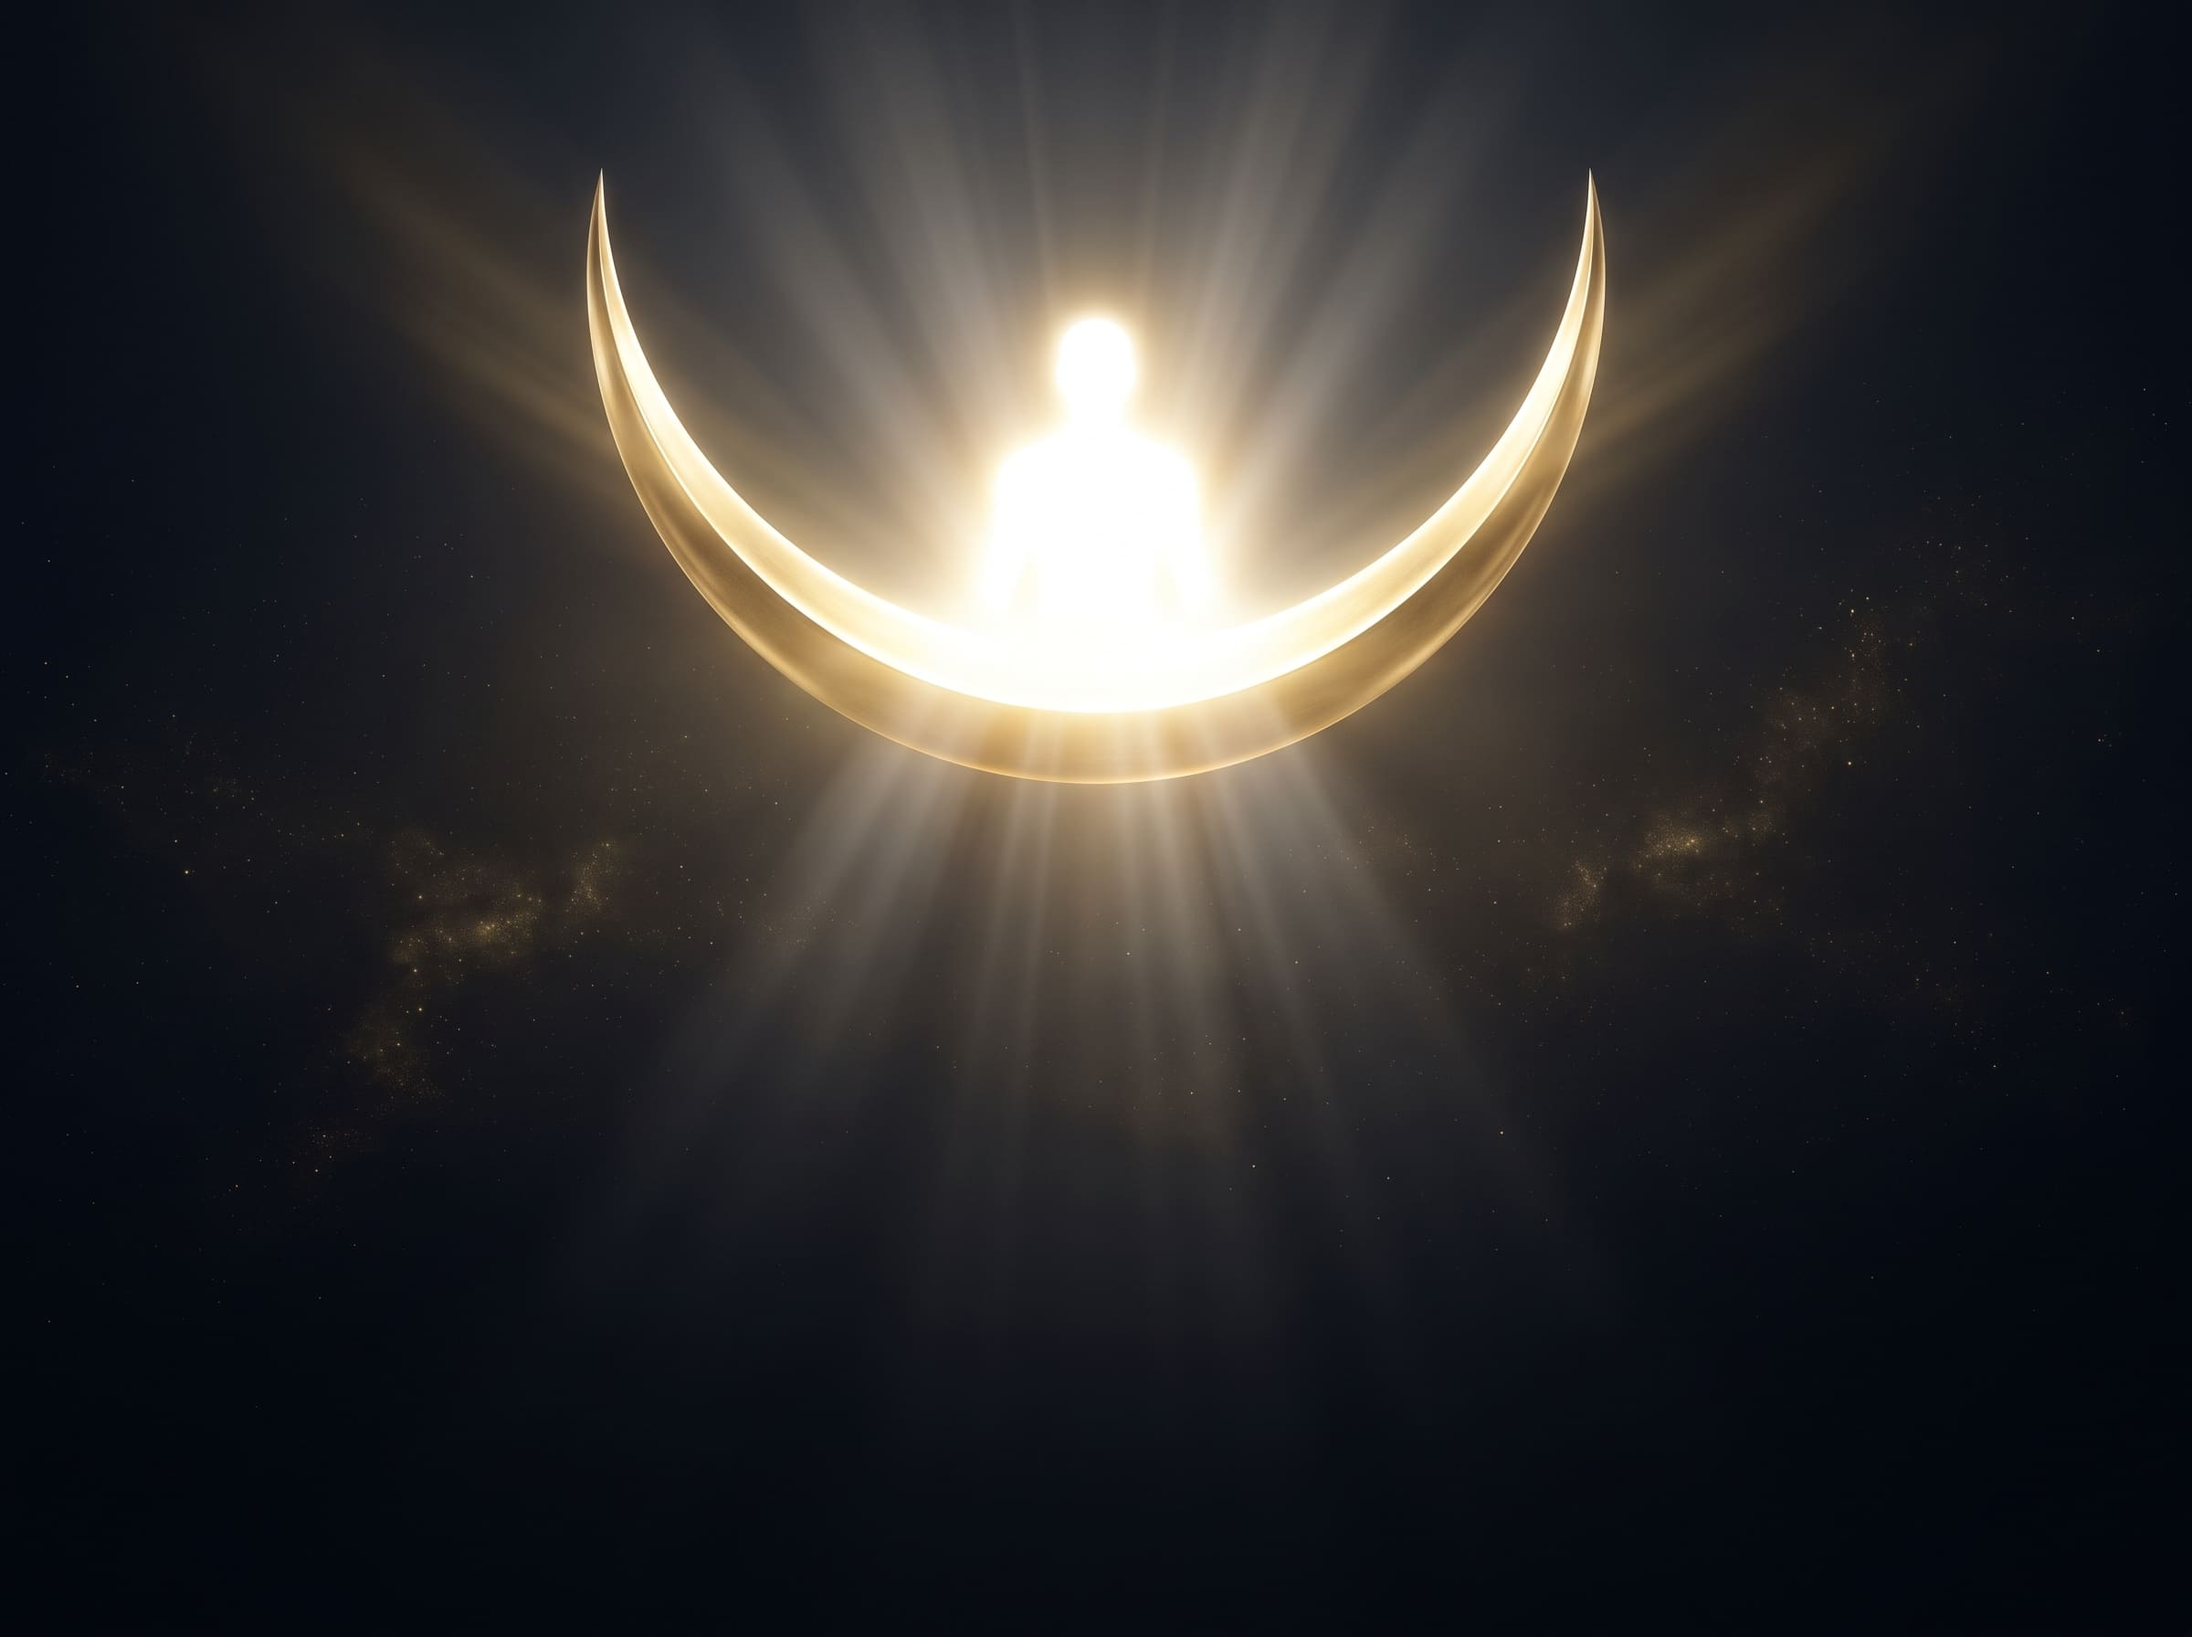
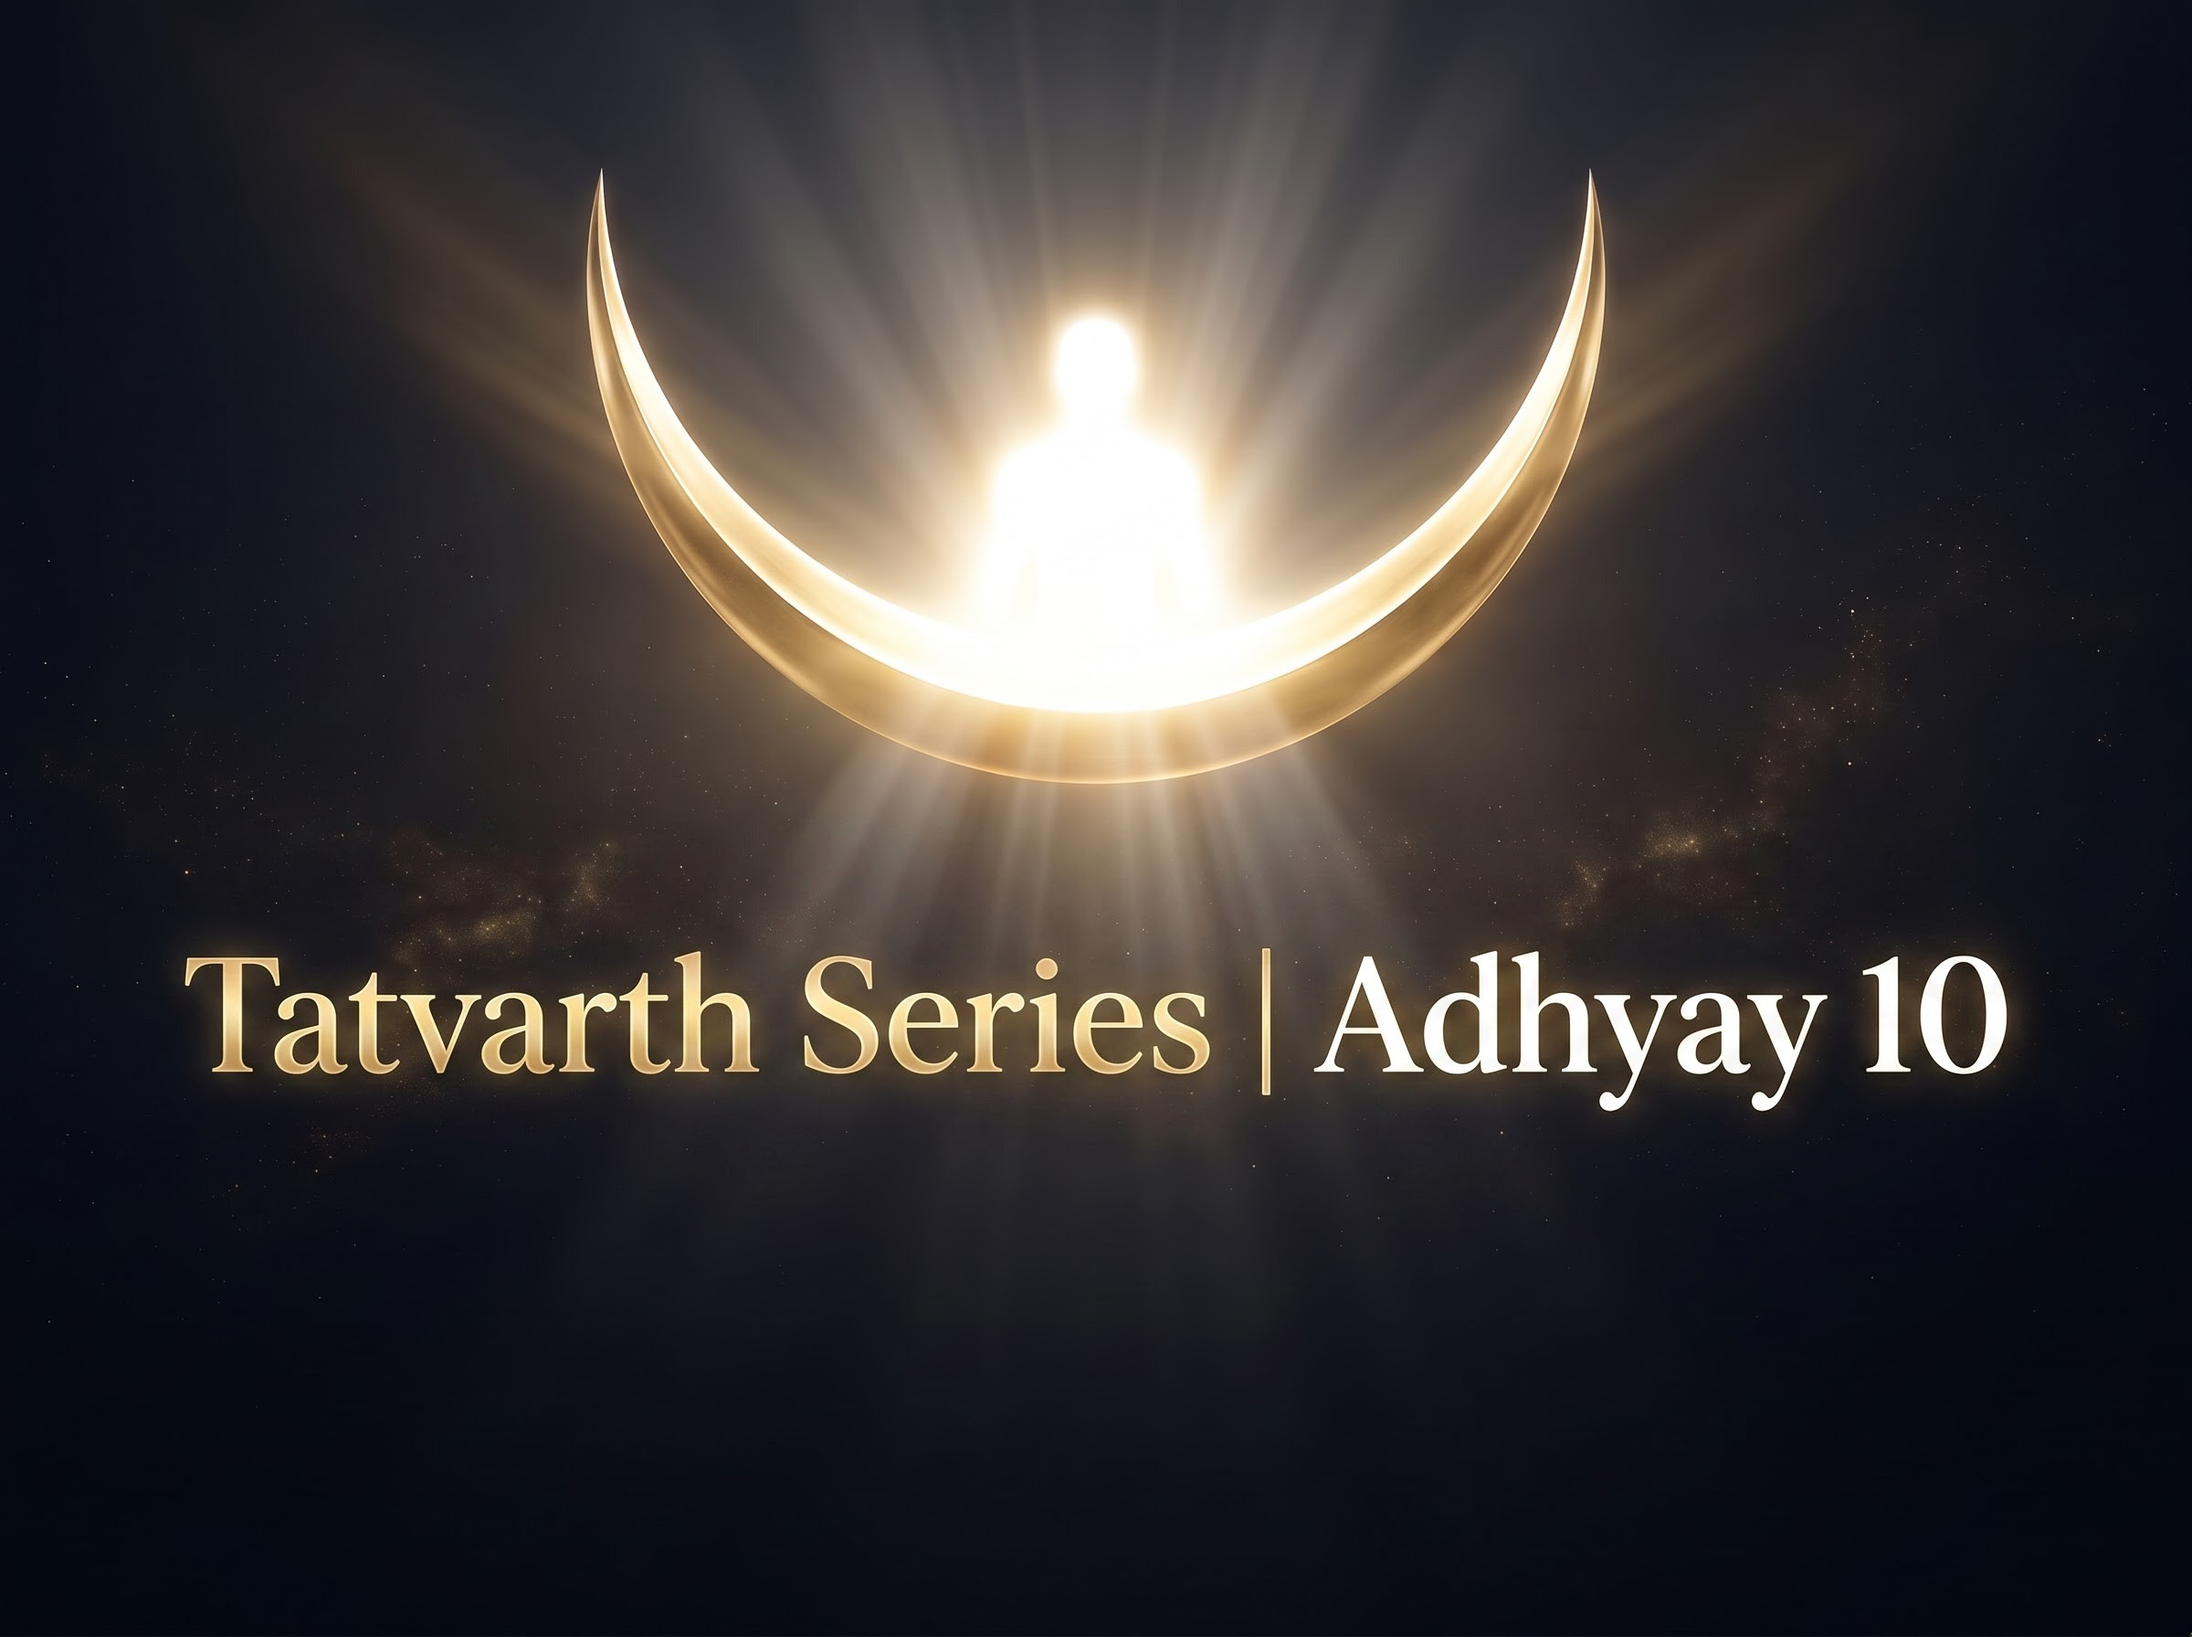
Modified tatvarth images

Changed region(s): [[0.0625, 0.5625, 0.9375, 0.6875]]

diff --git a/app/[lang]/resources/components/NotesClient.tsx b/app/[lang]/resources/components/NotesClient.tsx
@@ -226,7 +226,7 @@ export default function NotesClient({ initialNotes: rawInitialNotes, isIndic, t 
   const getSeriesPoster = (seriesName: string) => {
     const name = seriesName.toLowerCase();
     if (name.includes('decoding')) return '/images/resources/posters/decoding_jainism.jpeg';
-    if (name.includes('tatvarth')) return '/images/resources/posters/tatvarth-series.jpeg';
+    if (name.includes('tatvarth')) return '/images/resources/posters/tatvarth-series.png';
     if (name.includes('the jain ramayan')) return '/images/resources/posters/the-jain-ramayan.jpeg';
     return null;
   };
